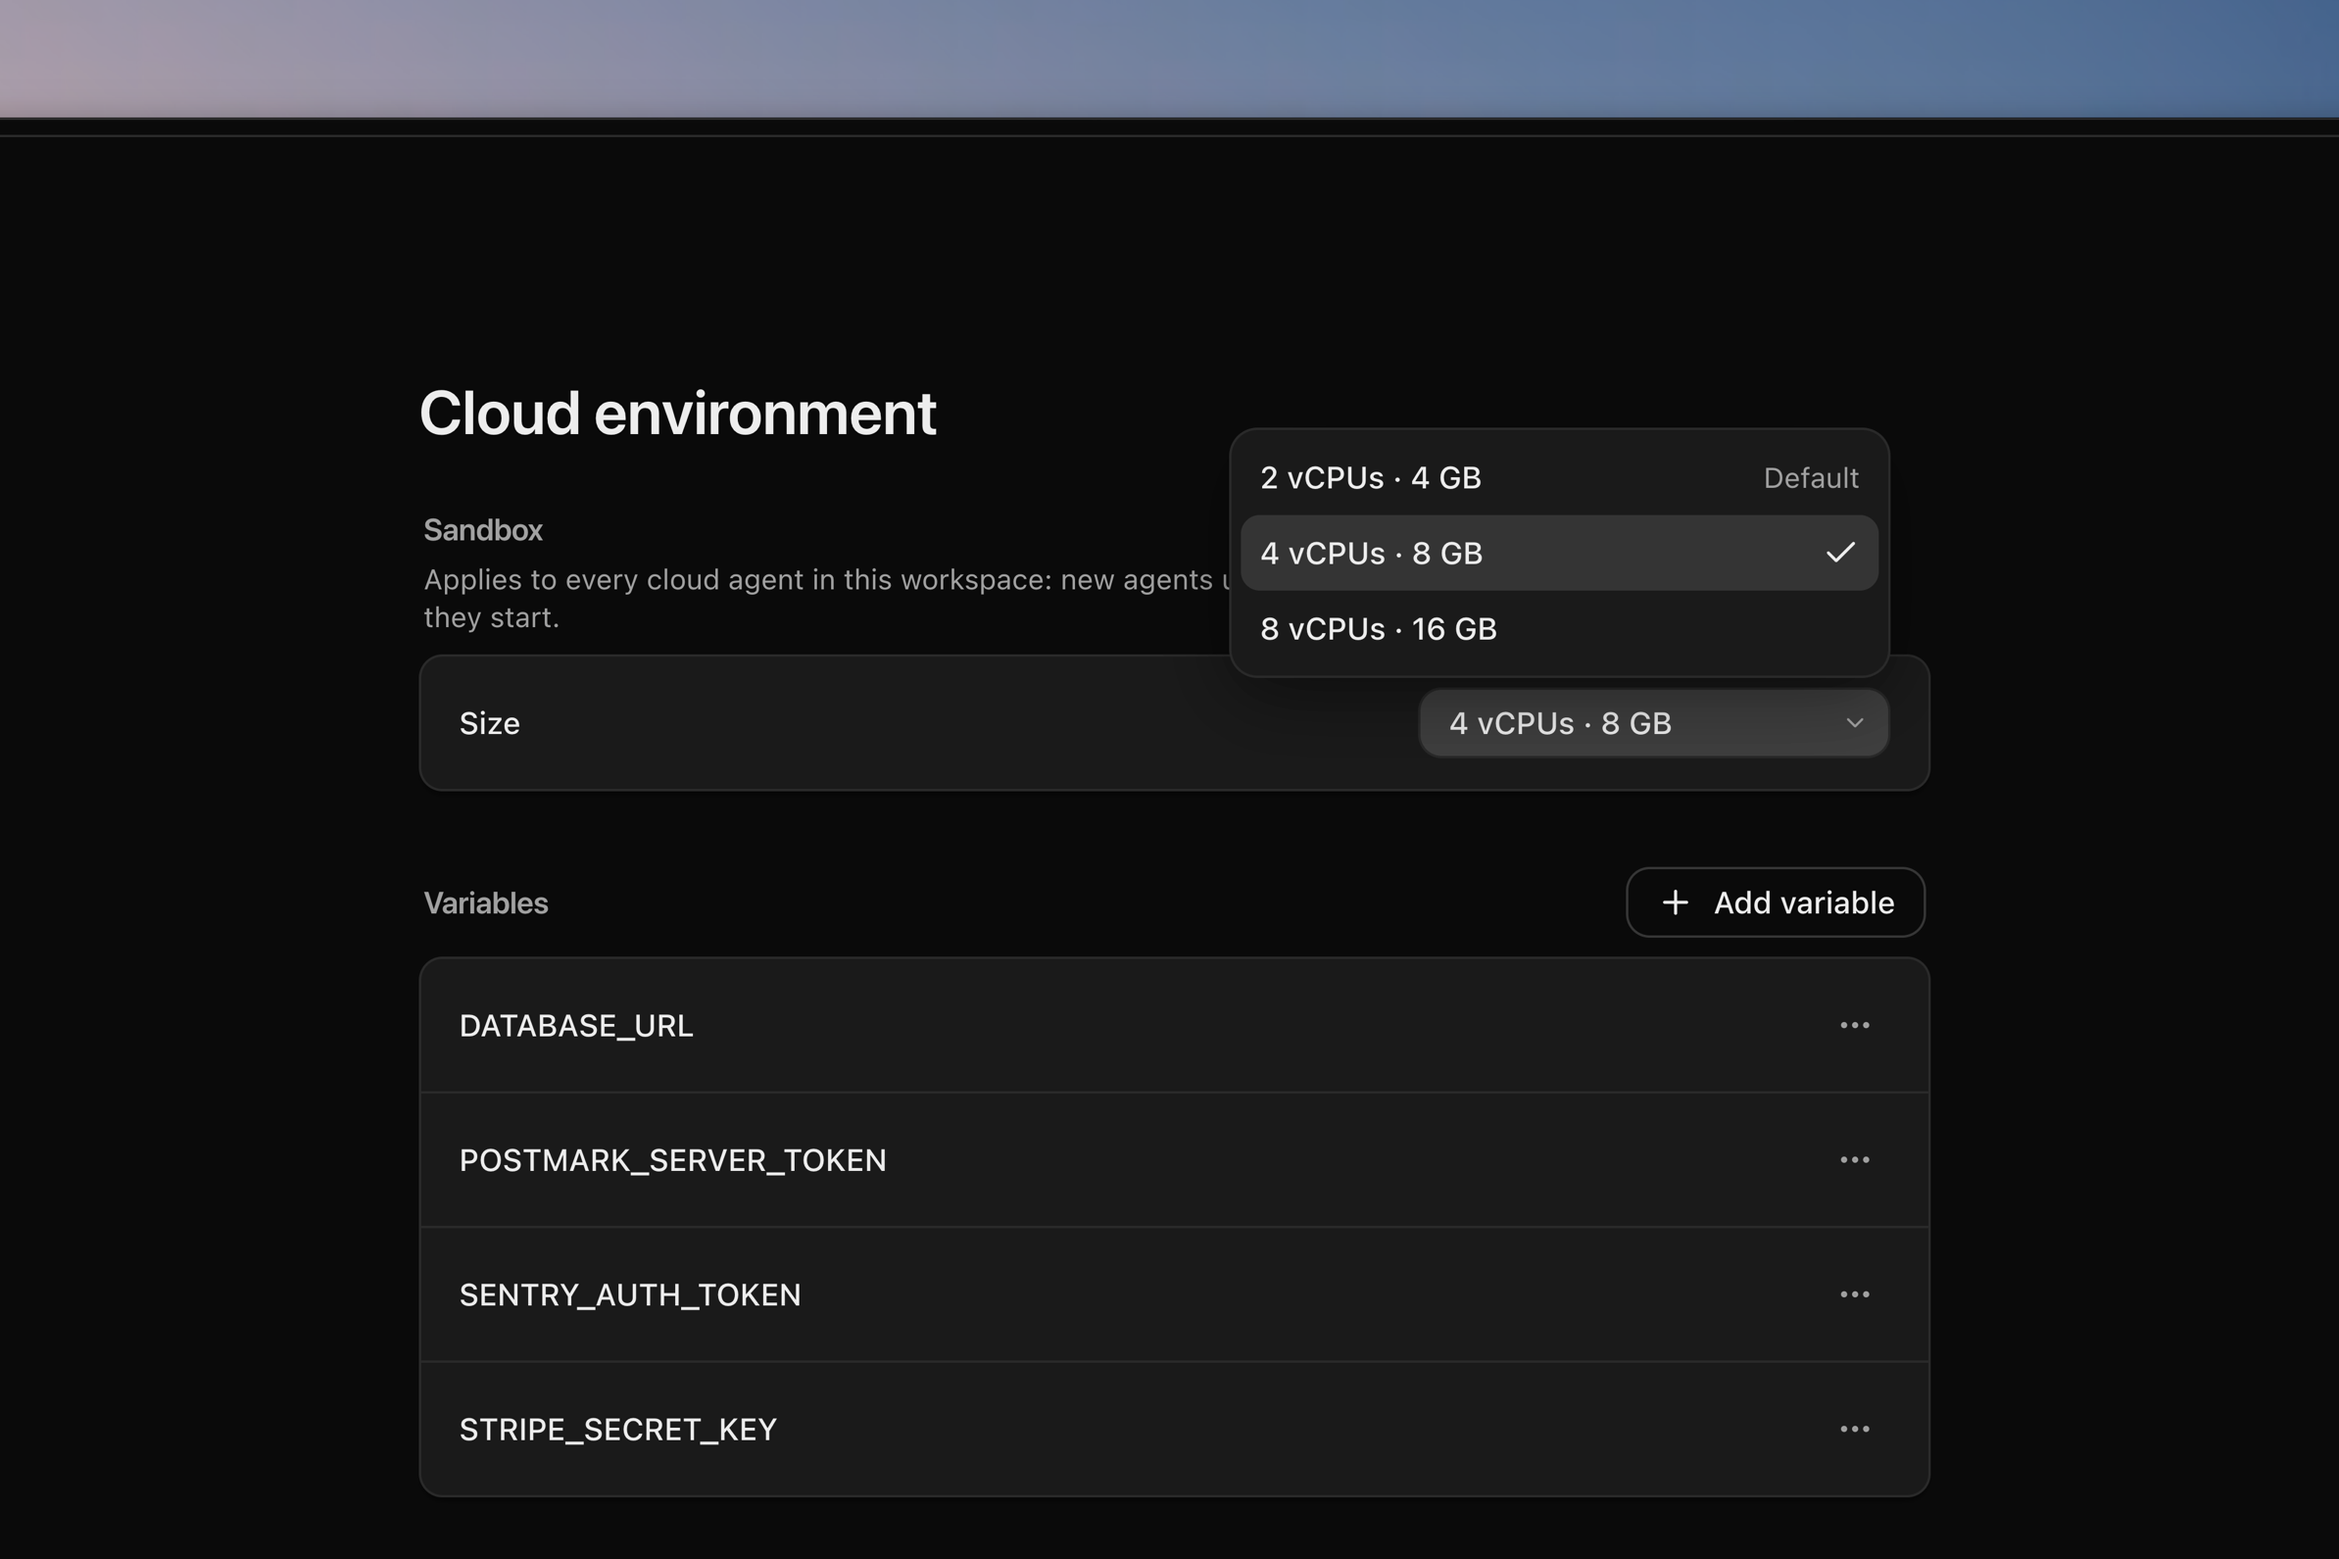
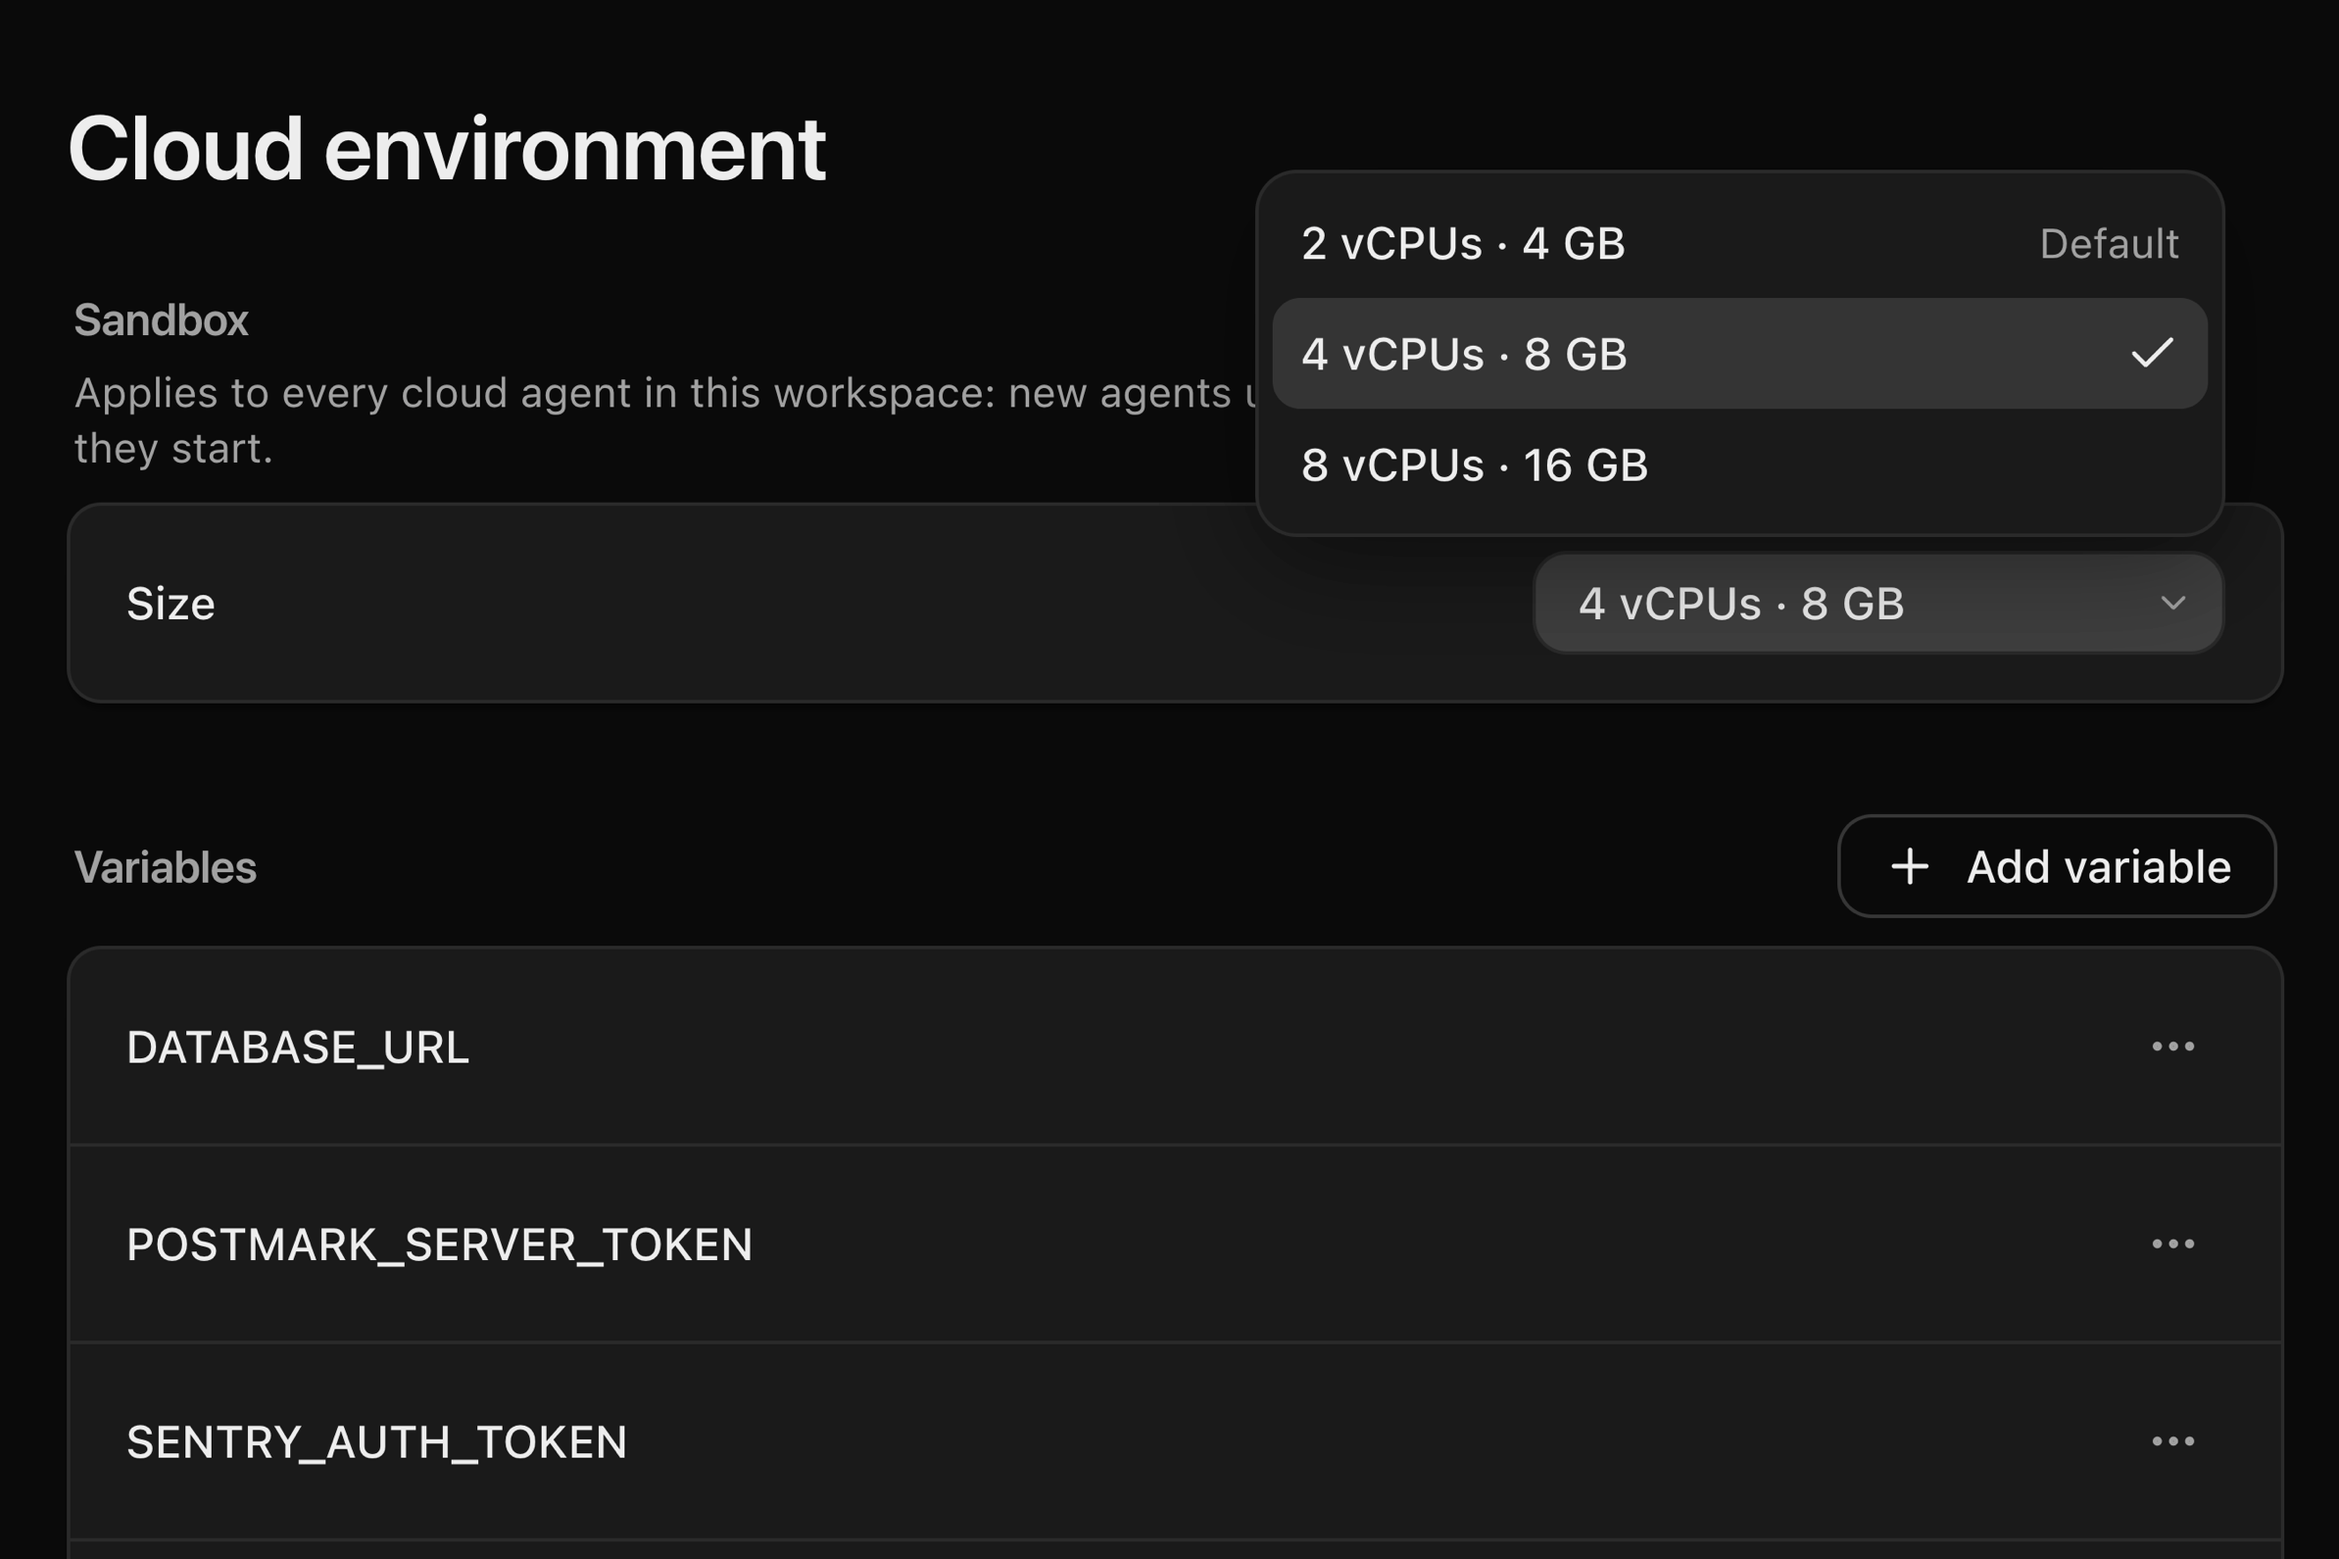
docs(changelog): zoom the 0.36.0 screenshot in on the Size menu

diff --git a/.agents/skills/changelog-screenshots/staging/releases/README.md b/.agents/skills/changelog-screenshots/staging/releases/README.md
@@ -88,7 +88,7 @@ adjusting, and capture with the same profile, zoom, and crop.
 | 0.34.0 | `v0.34.0` (`74fdd158`) | `mention-vespin-on-github.png` | none: two GitHub comments, Dana's mention with its 👀 and the bot's reply, on GitHub's dark ground, the `abstract` page `v0.34.0-github-mention.py` builds from Primer CSS and Octicons, rendered by the Mac's Chrome (`--headless=new --force-device-scale-factor=2 --window-size=1200,796 --screenshot`) | — | 2400 by 1592, unframed |
 | 0.34.0 | `v0.34.0` (`74fdd158`) | not landed: the agent's transcript with Dana's GitHub comment line (`shot-github-mention`), replaced by the mockup; the issue page in a Chrome window (the generator's `page`), replaced by the two comments; the Automations list (`shot-automations`), the one-time editor (`shot-automation-once`), and its Runs dropdown (`shot-automation-runs`), none of which said Once simply; and the transcript rail's list (`shot-rail`), held for the rail's redesign | — | — | — |
 | 0.35.0 | `v0.35.0` (`0877468d`) | `following.png` | `shot-following` (`APP_SHOT_SETTLE=14`) | 1 | `-40,-40,1370,914` |
-| 0.36.0 | `v0.36.0` (`667ef6bb`) | `cloud-sandbox-size.png` | `shot-sandbox-size` (`APP_SHOT_SETTLE=12`) | 2 | `428,-50,990,660` |
+| 0.36.0 | `v0.36.0` (`667ef6bb`) | `cloud-sandbox-size.png` | `shot-sandbox-size` (`APP_SHOT_SETTLE=12`) | 2 | `586,82,675,450` |
 
 0.14.0 was shot from `2ec91a61`, the head of its version pull request (#2871) before its pictures landed; `v0.14.0.patch` carries 0.13.0's module onto it, with 0.14.0's five shots beside the earlier ones.
 
@@ -120,7 +120,7 @@ Every shot can be checked before the Mac: on Linux, Electron runs under `xvfb-ru
 
 0.35.0 was shot from its tag. `v0.35.0.patch` applies 0.34.0's after #9303 and #9272 renamed a plan to a task: `planId` and `planName` are `taskId` and `taskName`, `INBOX_SCOPE_KIND.PLAN` is `TASK`, `LIVE_READ.DESCRIPTION_DOCUMENT` is `HELD_TASK`, `DOCUMENT_REGION` is `TASK_REGION`, and a task's `document` is its `description`. The sidebar no longer draws a shot's `planning.tasks`: it reads the task list's TanStack DB collections, which `followAppState` writes from `selectListedTasks`, the fixture's own view, so the patch hooks `tasks-fixture-loader.ts`'s `fixtureTasksView` to return the shot's tasks through a `globalThis.shotPlanning` seam `shot-profiles.ts` sets. A task opens on its agents' tabs now, its head and chips standing on its Overview (`MAIN_TAB.OVERVIEW`, chosen by a step through `plans.mainTabs.onChoose`), and on the web preview a shot's launch reaches its task only by a step that presses its sidebar row. Task descriptions are still behind Experimental, so the Overview draws no description; Usage-based billing carries three sub-tasks (`parentTaskId`) and two agents to fill it, and the Followers popover is held open by pressing `button[aria-label^='Followers']` until the capture. Followers ride on each task summary and on the open task (`followers`, each `userId`, `assignee`, `machines`), and the sidebar's Assigned to stands at Me, so a teammate's task Dean follows stands under Following. On the Mac a background job started through `run_on_mac` dies with its shell, so `build.sh` and `window.sh` ran in detached `tmux` sessions, and the first launch needed `node node_modules/electron/install.js` before a window opened.
 
-0.36.0 was shot from its tag. `v0.36.0.patch` applies 0.35.0's after the task list's lists moved out of the tasks view (#9461, #9467, #9475): a shot's `planning` is a `ListedTasksView` (`@repo/features/tasks-view`), the document's tasks slice with the lists beside it, and `use-tasks-tab.ts` no longer hands the view `tasks`. The fixture's settings switch Skills, Rewind restores files, Turn changes, Goals, and Computer use on under every profile (`settings-fixture.ts`'s `STAGED_EXPERIMENTS`), which earlier shots drew, Skills' row in Settings' list among them; `shot-state.ts` now turns every experiment off but those a shot names. Settings › Cloud environment reads three acts (`WORKSPACE_SANDBOX_SIZE_READ`, `WORKSPACE_ENVIRONMENT_LIST`, `WORKSPACE_SANDBOX_SETUP_READ`), answered by the shot, and its Size menu, which opens above its chip by design and covers the caption's end, is held open by the chip's `aria-expanded` (`button[aria-label^='Size:']`). A crop inside the window alone read as a black page, so the close-up takes the window's top edge and the wallpaper above it. The Improvements and Fixes have no picture.
+0.36.0 was shot from its tag. `v0.36.0.patch` applies 0.35.0's after the task list's lists moved out of the tasks view (#9461, #9467, #9475): a shot's `planning` is a `ListedTasksView` (`@repo/features/tasks-view`), the document's tasks slice with the lists beside it, and `use-tasks-tab.ts` no longer hands the view `tasks`. The fixture's settings switch Skills, Rewind restores files, Turn changes, Goals, and Computer use on under every profile (`settings-fixture.ts`'s `STAGED_EXPERIMENTS`), which earlier shots drew, Skills' row in Settings' list among them; `shot-state.ts` now turns every experiment off but those a shot names. Settings › Cloud environment reads three acts (`WORKSPACE_SANDBOX_SIZE_READ`, `WORKSPACE_ENVIRONMENT_LIST`, `WORKSPACE_SANDBOX_SETUP_READ`), answered by the shot, and its Size menu, which opens above its chip by design and covers the caption's end, is held open by the chip's `aria-expanded` (`button[aria-label^='Size:']`). At the developer's ask the close-up is zoomed in on the Sandbox section and its menu, inside the page, ending under a whole Variables row; a wider crop with the window's top edge and wallpaper came first. The Improvements and Fixes have no picture.
 
 0.12.0 was shot from `6d47d20f`, the head of its version pull request (#2421), before the tag existed; `v0.12.0` itself is `0dec8cda`.
 
